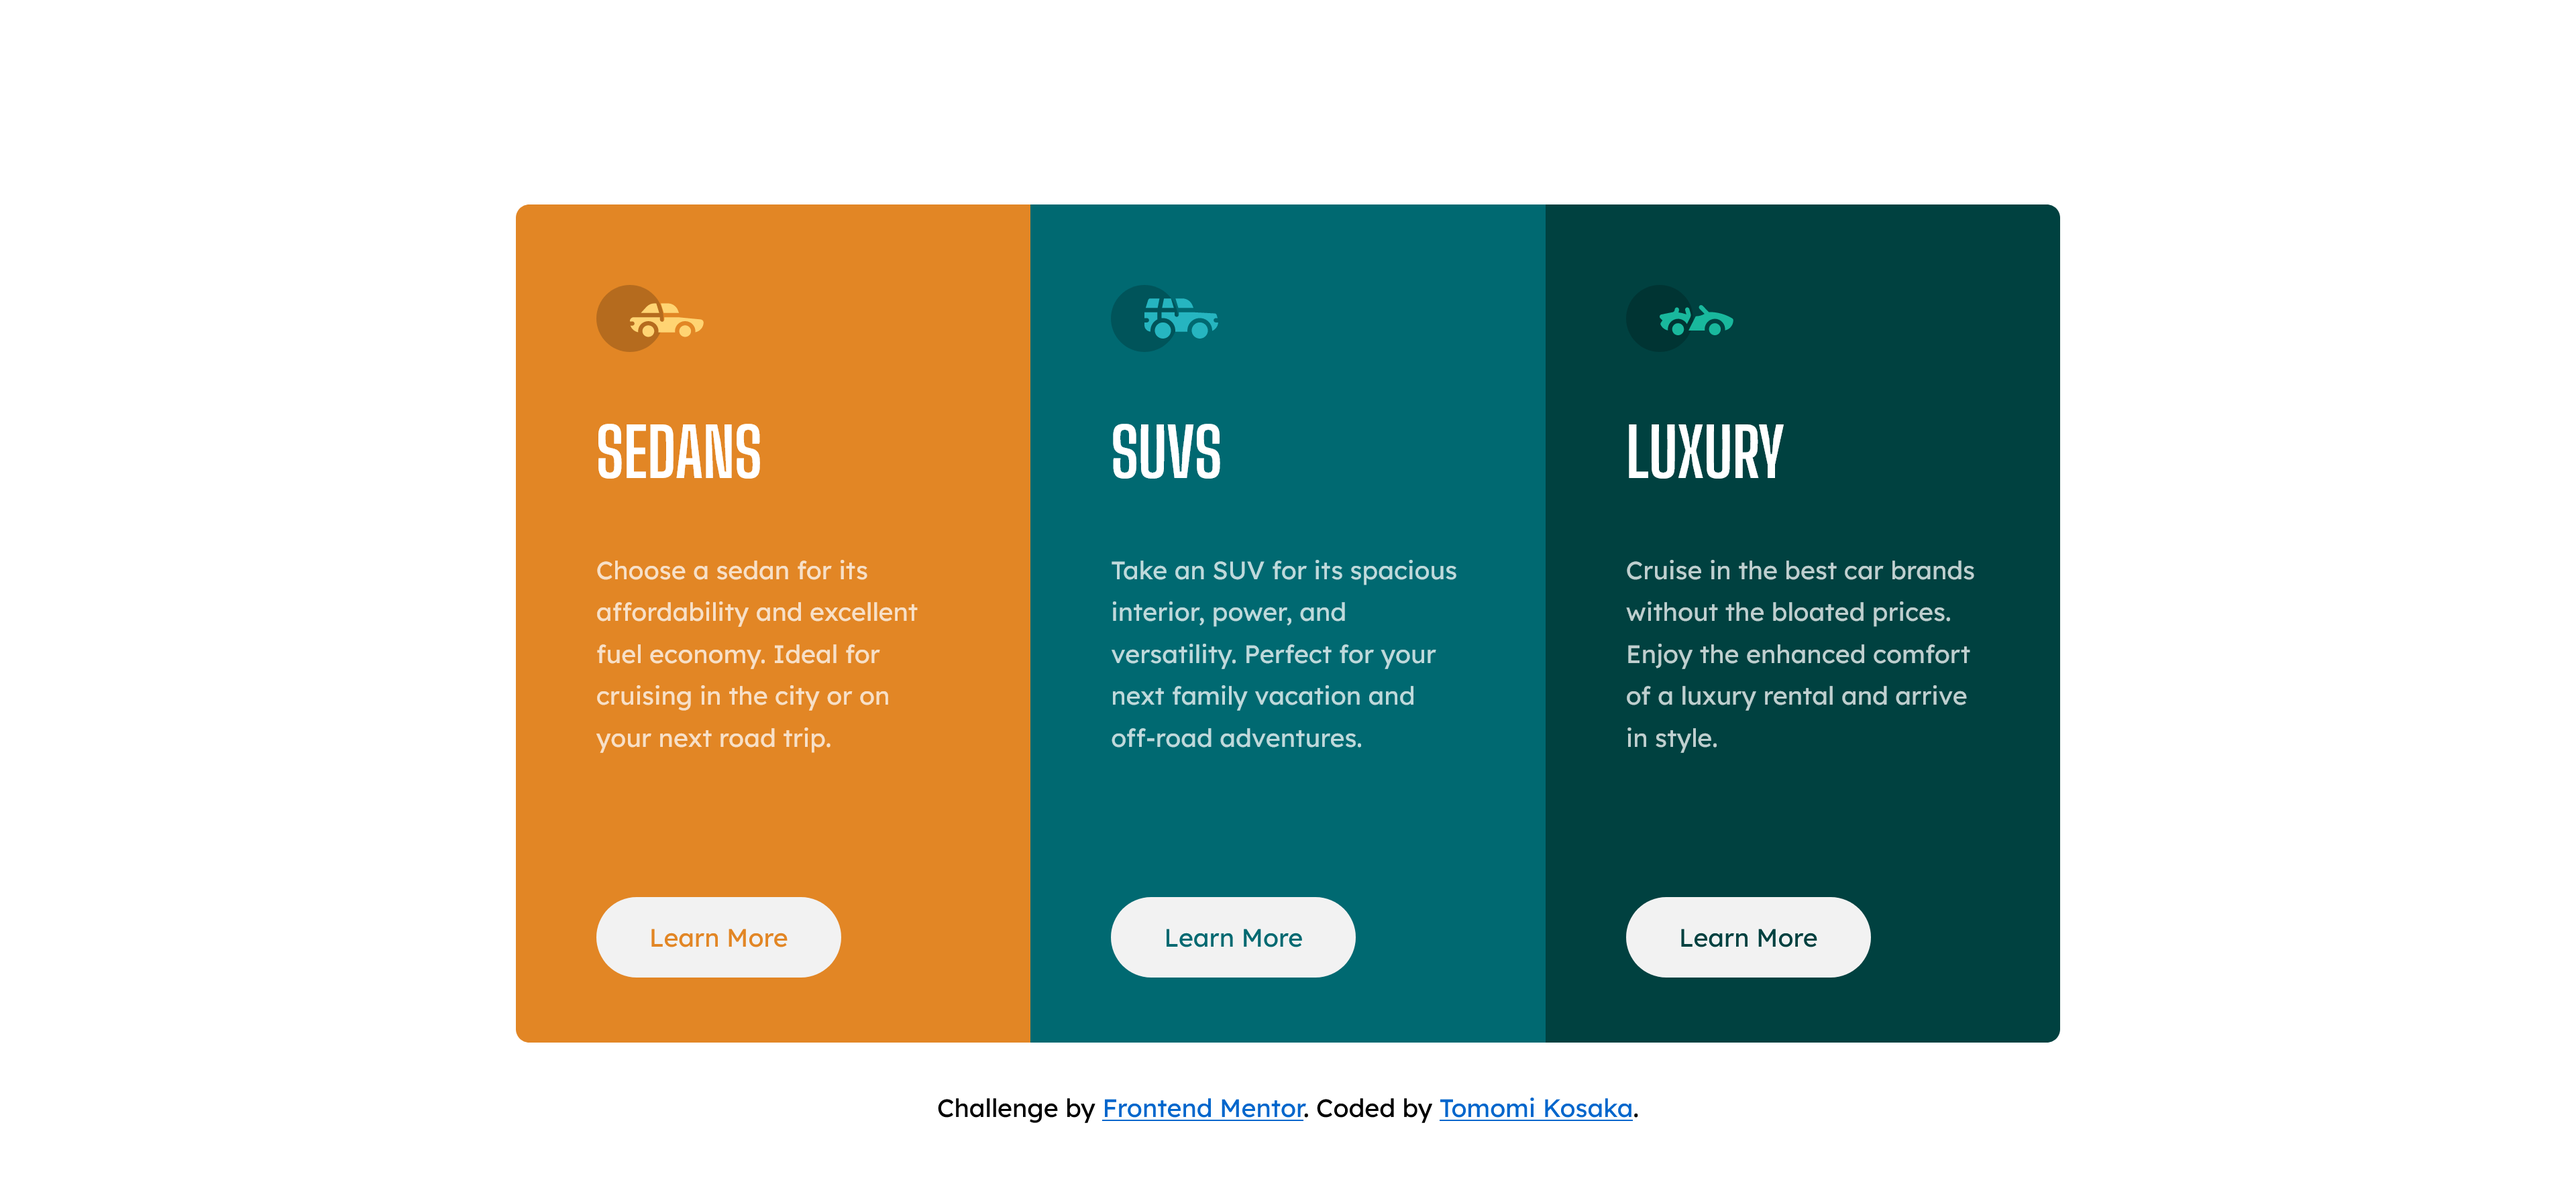
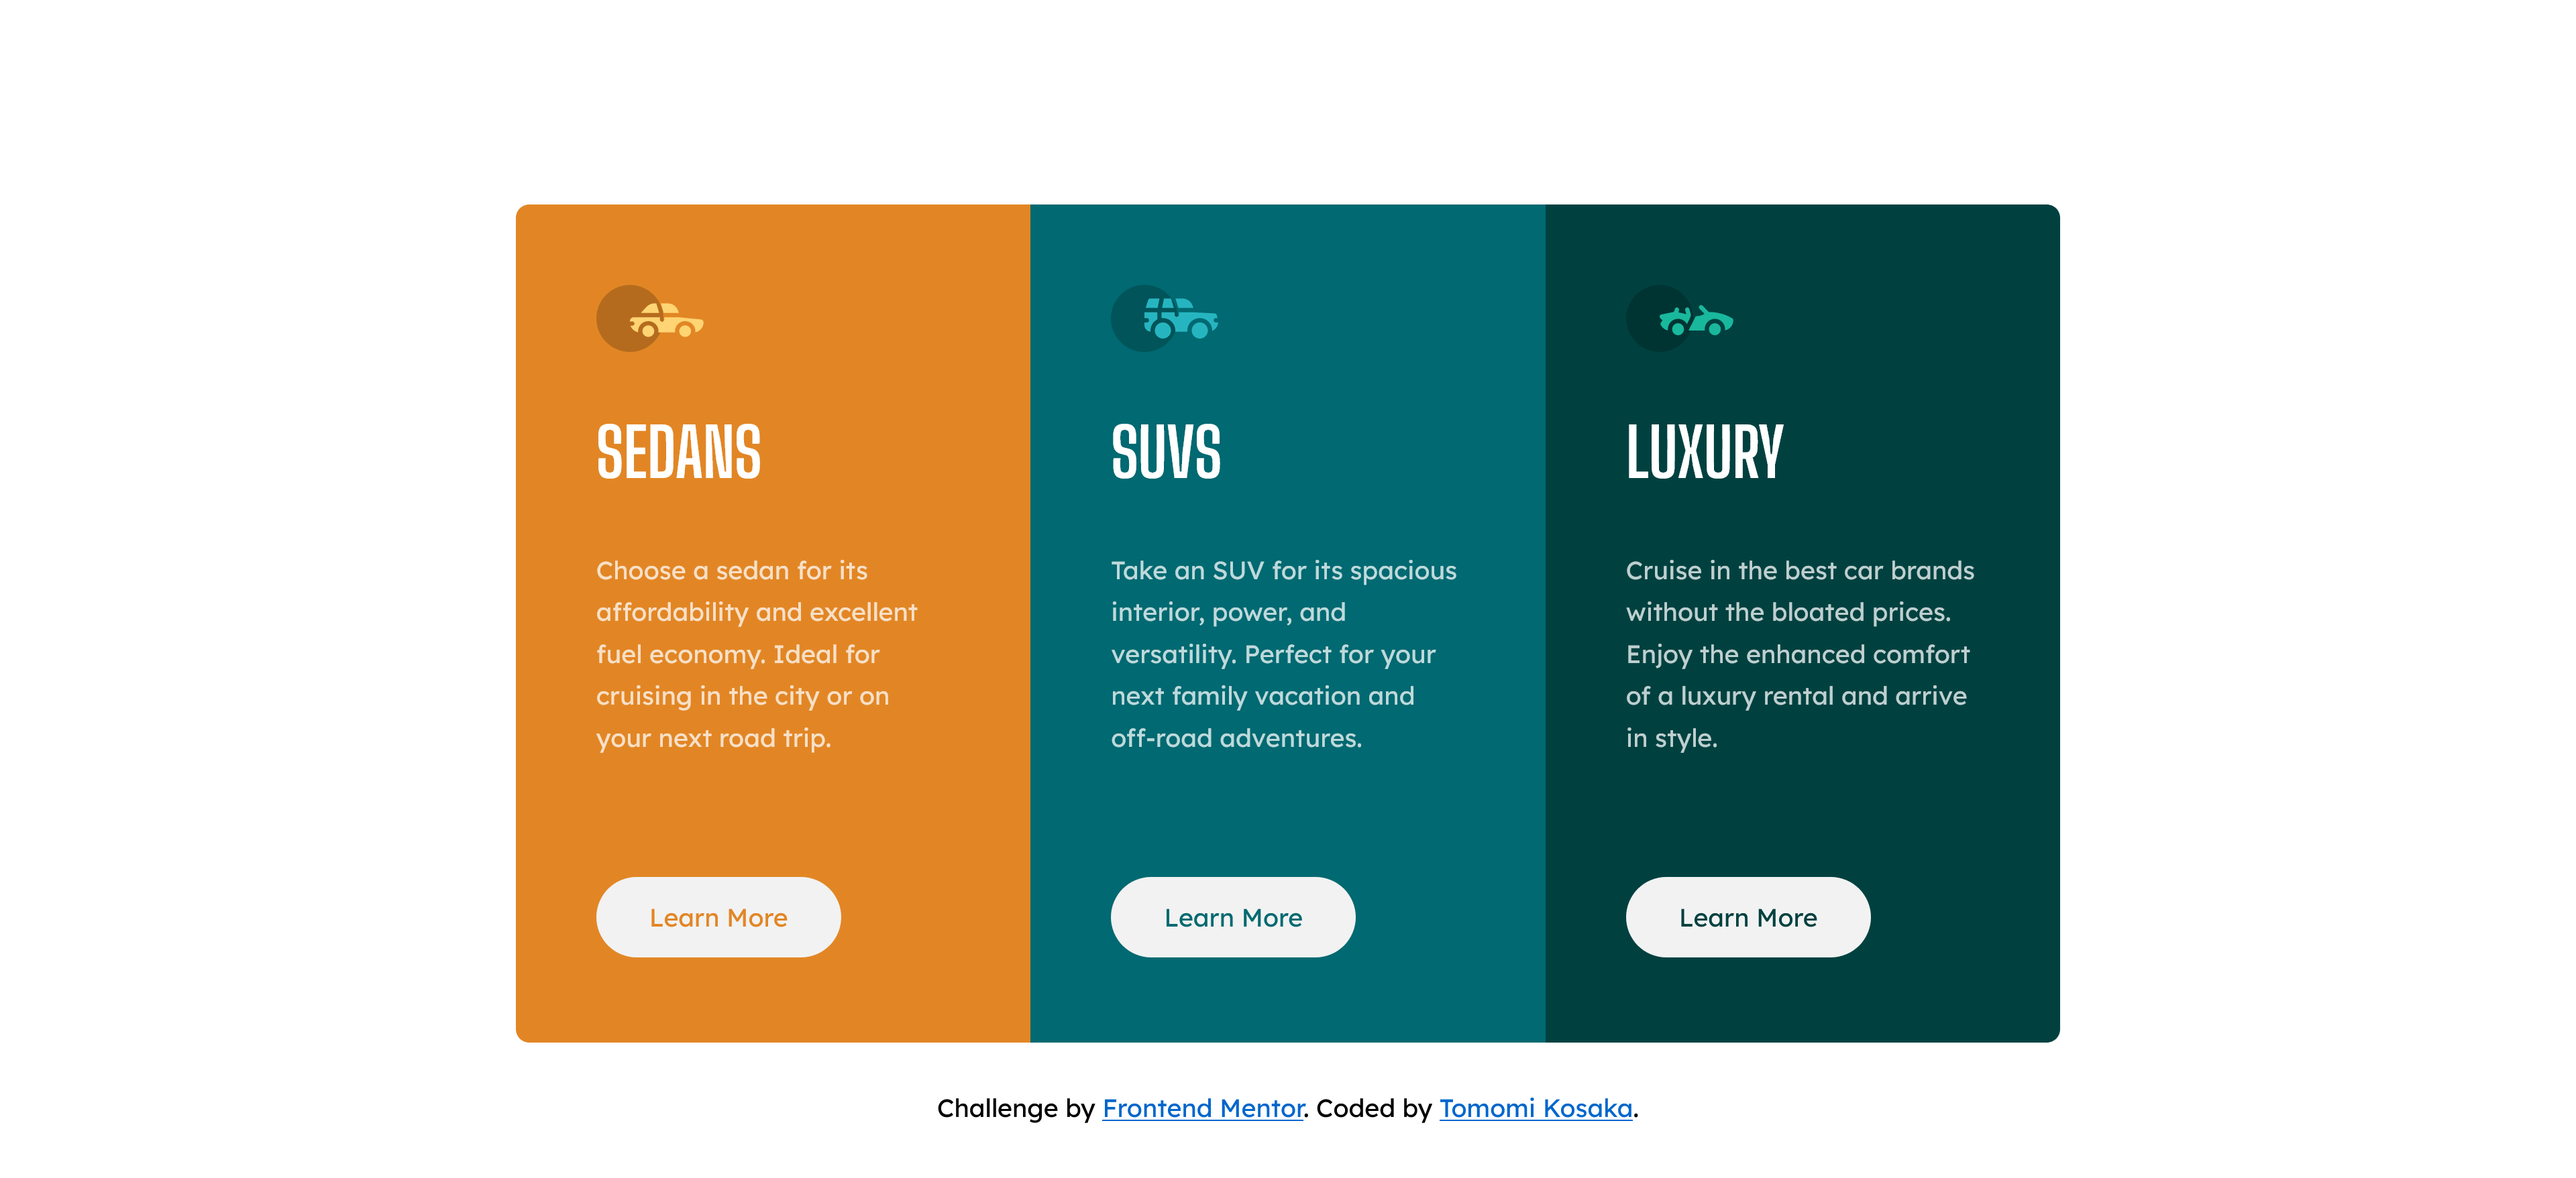
adjusted button position

Changed region(s): [[0.625, 0.7376, 0.75, 0.8298], [0.2188, 0.7376, 0.3438, 0.8298], [0.4375, 0.7376, 0.5312, 0.8298]]

diff --git a/3-column-preview-card-component-main/style.css b/3-column-preview-card-component-main/style.css
@@ -121,7 +121,7 @@ button{
     .card-sedans button,
     .card-suvs button,
     .card-luxury button{
-        margin-top:58px;
+        margin-top:46px;
     }
 
     .card-sedans{
